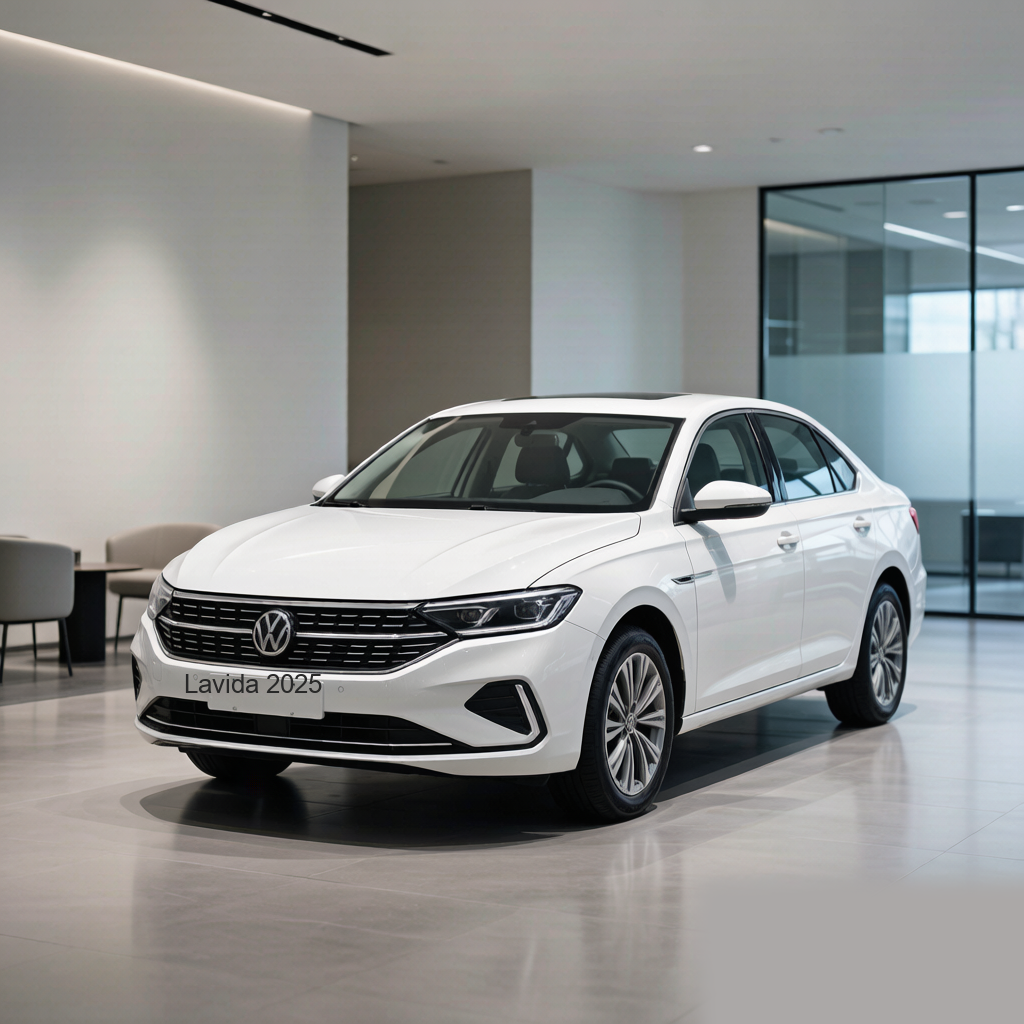
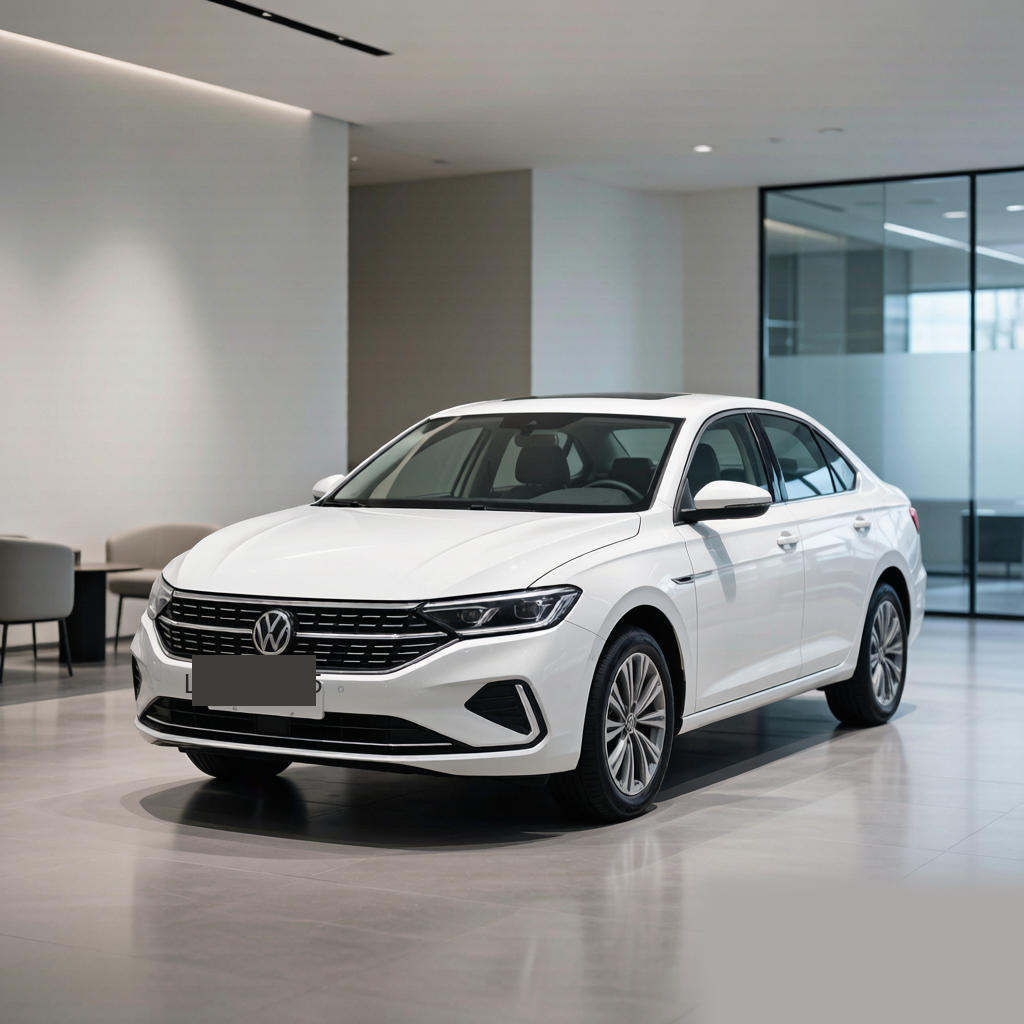
Remove Lavida 2025 text from plate for more realistic look

Changed region(s): [[0.1875, 0.625, 0.3125, 0.6875]]

diff --git a/app/page.js b/app/page.js
@@ -245,7 +245,7 @@ export default function Home() {
             <div className="car-card fade-in">
               <div className="car-card-image">
                 <span className="car-badge">En stock</span>
-                <img src="/images/volkswagen-lavida-2025.png?v=3" alt="Volkswagen Lavida 2025" />
+                <img src="/images/volkswagen-lavida-2025.png?v=4" alt="Volkswagen Lavida 2025" />
               </div>
               <div className="car-card-body">
                 <span className="brand">Volkswagen</span>
